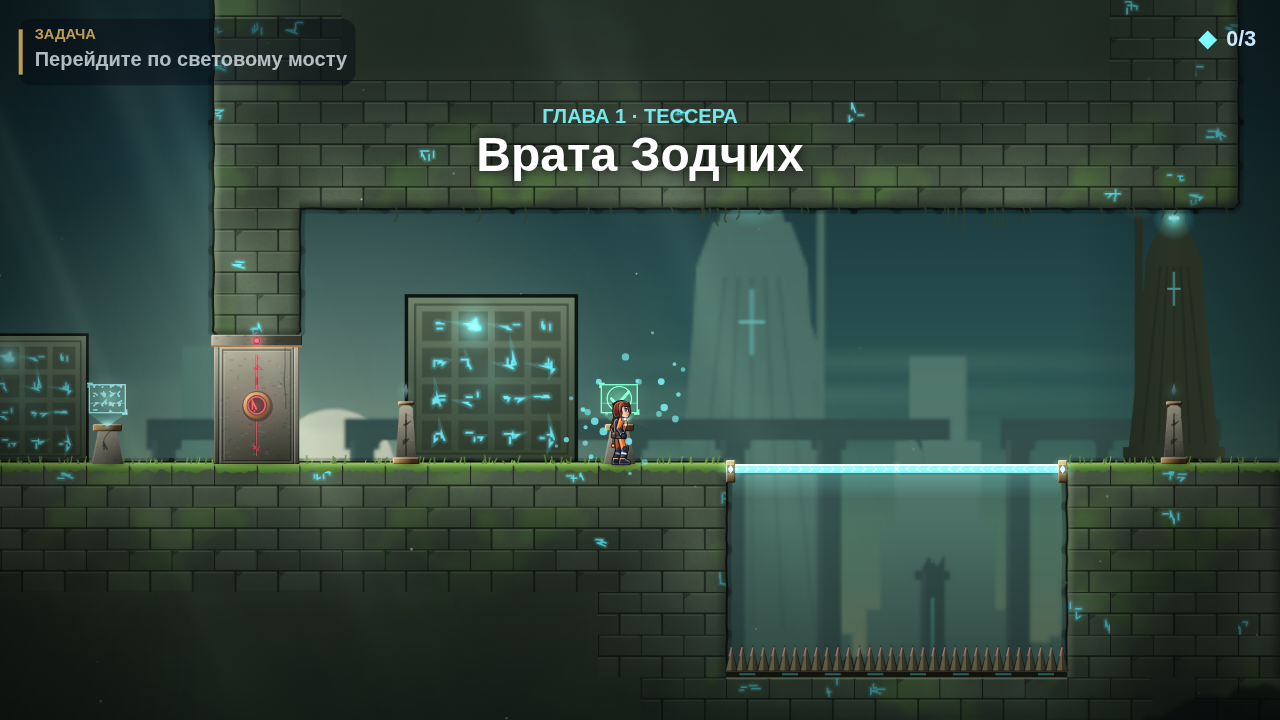
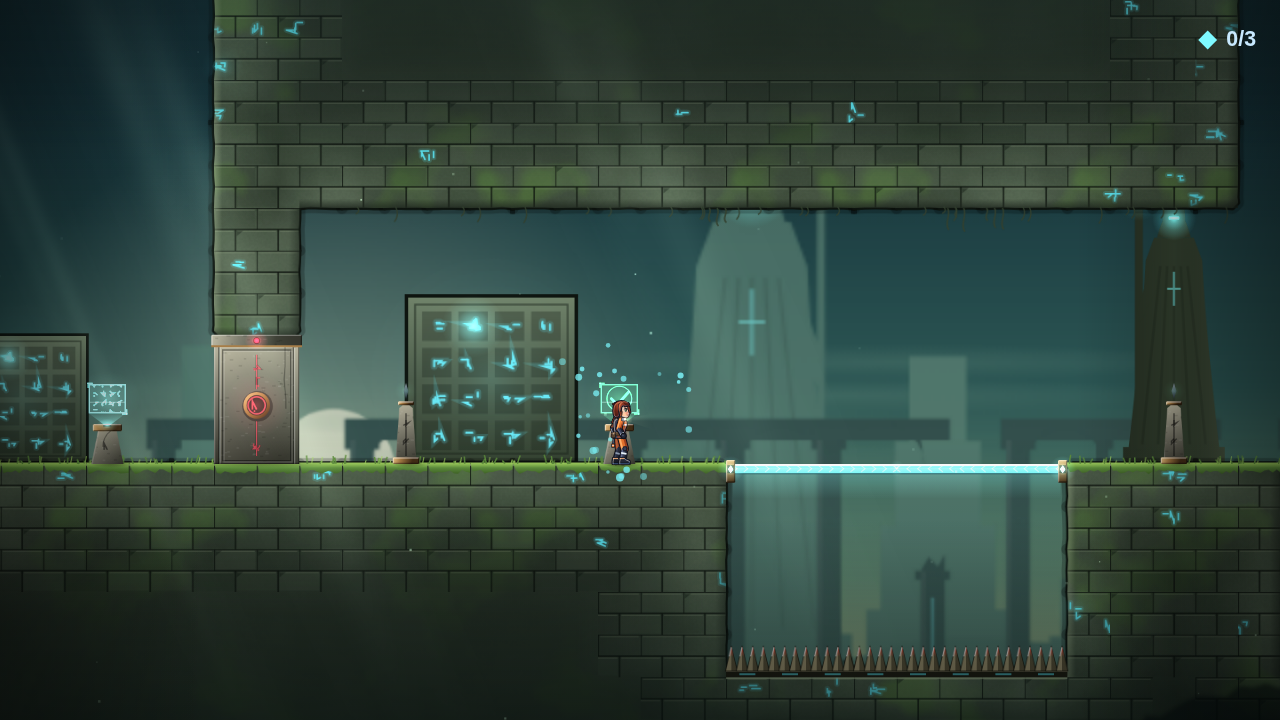
feat: text-free HUD (ui.noText), boss render hooks
Claude-Session: https://claude.ai/code/session_011riFv5DJ17e4oyhEAbbRPt

diff --git a/src/js/game.js b/src/js/game.js
@@ -345,7 +345,7 @@
         const can = !e.canInteract || e.canInteract(this);
         const missing = e.missingHint ? e.missingHint(this) : null;
         if (!can && !missing) continue;
-        if (d < bd) { bd = d; best = { e, can, missing }; }
+        if (d < bd) { bd = d; best = { e, can, missing, missingItem: missing ? e.needs : null }; }
       }
       return best;
     }
@@ -465,12 +465,14 @@
       else drawDebugTiles(ctx, view, L);
 
       const Ent = G.Art.Entities;
-      const order = ['exit', 'checkpoint', 'sign', 'terminal', 'socket', 'lever', 'door', 'bridge', 'plate', 'jumppad', 'laser', 'wind', 'fallplat', 'mplatform', 'crate', 'part', 'shard', 'anchor', 'dashcrystal', 'npc', 'saw', 'sentinel'];
+      const order = ['exit', 'checkpoint', 'sign', 'terminal', 'socket', 'lever', 'door', 'bridge', 'plate', 'jumppad', 'laser', 'wind', 'fallplat', 'mplatform', 'crate', 'part', 'shard', 'anchor', 'dashcrystal', 'npc', 'saw', 'sentinel', 'boss', 'bossproj'];
       for (const type of order) {
         for (const e of L.entities) {
           if (e.type !== type) continue;
           const vis = e.type === 'laser' ? true : onScreen(e, e.type === 'saw' ? 64 : 96);
-          if (vis && Ent && Ent.draw) Ent.draw(ctx, e, time, L);
+          if (!vis) continue;
+          if ((type === 'boss' || type === 'bossproj') && G.Art.Bosses) G.Art.Bosses.draw(ctx, e, time, L);
+          else if (Ent && Ent.draw) Ent.draw(ctx, e, time, L);
         }
       }
       if (this.drone.enabled && G.Art.Drone && G.Art.Drone.draw) G.Art.Drone.draw(ctx, this.drone, time);
@@ -483,7 +485,7 @@
       if (Decor.drawForeground && !low) Decor.drawForeground(ctx, view, L, time);
 
       // world-space UI: hints + interaction prompt
-      for (const e of L.entities) if (e.type === 'hint' && e.alpha > 0.01) drawHint(ctx, e);
+      if (!G.CONFIG.ui.noText) for (const e of L.entities) if (e.type === 'hint' && e.alpha > 0.01) drawHint(ctx, e);
       if (this.focus && !this.puzzle) drawPrompt(ctx, this.focus, t);
       ctx.restore();
 
@@ -504,13 +506,14 @@
         const k = Math.min(1, this.deathT / G.CONFIG.death.respawnDelay);
         ctx.fillStyle = `rgba(0,0,0,${Math.max(0, (k - 0.5) * 2) * 0.9})`; ctx.fillRect(0, 0, W, H);
       }
-      if (this.completeT >= 0) drawComplete(ctx, this);
+      if (this.completeT >= 0 && !G.CONFIG.ui.noText) drawComplete(ctx, this);
+      else if (this.completeT >= 0) { ctx.fillStyle = `rgba(0,0,0,${Math.min(0.6, this.completeT * 0.4)})`; ctx.fillRect(0, 0, W, H); }
     }
 
     drawHUD(ctx, t) {
       const def = this.def;
       // level banner
-      if (this.bannerT < 4.5 && !this.dialogue.active) {
+      if (!G.CONFIG.ui.noText && this.bannerT < 4.5 && !this.dialogue.active) {
         const a = Math.min(1, this.bannerT * 2, (4.5 - this.bannerT) * 1.5);
         ctx.save(); ctx.globalAlpha = Math.max(0, a);
         ctx.textAlign = 'center';
@@ -522,7 +525,7 @@
         ctx.restore();
       }
       // objective
-      if (this.objective) {
+      if (this.objective && !G.CONFIG.ui.noText) {
         const a = Math.min(1, this.objectiveT * 2);
         ctx.save(); ctx.globalAlpha = a;
         ctx.font = `600 14px ${FONT}`;
@@ -552,7 +555,7 @@
         ctx.restore();
       }
       // carried item
-      if (this.player.carry) {
+      if (this.player.carry && !G.CONFIG.ui.noText) {
         ctx.save(); ctx.font = `600 13px ${FONT}`; ctx.fillStyle = '#ffe17a'; ctx.textAlign = 'right';
         ctx.fillText('В руках: ' + (G.ITEM_NAMES[this.player.carry] || this.player.carry), W - 18, 56);
         ctx.restore();
@@ -608,6 +611,7 @@
   function drawPrompt(ctx, f, t) {
     const e = f.e;
     const key = G.input.touchActive ? 'E' : G.input.lastDevice === 'gamepad' ? 'X' : 'E';
+    if (G.CONFIG.ui.noText) { drawPromptIcon(ctx, f, t, key); return; }
     const text = f.can ? e.prompt || 'Действие' : 'Нужно: ' + f.missing;
     ctx.save();
     ctx.font = `700 13px ${FONT}`;
@@ -624,6 +628,19 @@
     } else {
       ctx.fillStyle = '#ffd0d0'; ctx.textAlign = 'center'; ctx.fillText(text, x + w / 2, y + 12.5);
     }
+    ctx.restore();
+  }
+
+  /** Text-free interaction prompt: a key-cap (or a red ✕ when the needed part is missing). */
+  function drawPromptIcon(ctx, f, t, key) {
+    const e = f.e, x = e.cx, y = e.y - 22 + Math.sin(t * 4) * 2;
+    ctx.save();
+    ctx.globalAlpha = 0.92;
+    ctx.fillStyle = f.can ? '#7ef9ff' : 'rgba(255,90,100,0.9)';
+    G.roundRect(ctx, x - 11, y - 10, 22, 20, 5); ctx.fill();
+    ctx.fillStyle = '#04101a'; ctx.font = `800 13px ${FONT}`; ctx.textAlign = 'center'; ctx.textBaseline = 'middle';
+    ctx.fillText(f.can ? key : '✕', x, y + 1);
+    if (!f.can && f.missingItem && G.Art.Entities && G.Art.Entities.drawItem) G.Art.Entities.drawItem(ctx, f.missingItem, x + 22, y, 14, true, 0);
     ctx.restore();
   }
 

diff --git a/src/js/world/physics.js b/src/js/world/physics.js
@@ -143,10 +143,34 @@
       return hits.length ? hits : null;
     },
 
-    /** Wall contact on side dir (-1 left, +1 right), static solids & doors only (not crates/platforms). */
+    /**
+     * Wall contact on side dir (-1 left, +1 right), static solids & doors only (not crates/platforms).
+     * Ice tiles are too slick to cling to: they never count as a wall (no slide, no wall jump).
+     */
     wallAt(body, dir, level) {
       const r = { x: dir > 0 ? body.x + body.w : body.x - 1, y: body.y + 4, w: 1, h: body.h - 10 };
-      return solidsOverlapping(r, level, body, false).some((h) => h.tile || (h.entity && h.entity.climbable));
+      return solidsOverlapping(r, level, body, false).some((h) => (h.tile && !(level.isIceTile && level.isIceTile(h.tx, h.ty))) || (h.entity && h.entity.climbable));
+    },
+
+    /**
+     * Tile line-of-sight (grid DDA, Amanatides–Woo): true if the segment (x0,y0)→(x1,y1) crosses
+     * no solid tile. Dynamic solids are ignored (doors/crates do not block sight or ropes).
+     * `skip(tx,ty)` may exempt tiles (e.g. the anchor's own tile).
+     */
+    lineClear(level, x0, y0, x1, y1, skip) {
+      let tx = Math.floor(x0 / T), ty = Math.floor(y0 / T);
+      const ex = Math.floor(x1 / T), ey = Math.floor(y1 / T);
+      const dx = x1 - x0, dy = y1 - y0;
+      const sx = dx > 0 ? 1 : -1, sy = dy > 0 ? 1 : -1;
+      const tdx = dx !== 0 ? Math.abs(T / dx) : Infinity, tdy = dy !== 0 ? Math.abs(T / dy) : Infinity;
+      let tmx = dx !== 0 ? ((sx > 0 ? (tx + 1) * T - x0 : x0 - tx * T) / Math.abs(dx)) : Infinity;
+      let tmy = dy !== 0 ? ((sy > 0 ? (ty + 1) * T - y0 : y0 - ty * T) / Math.abs(dy)) : Infinity;
+      for (let guard = 0; guard < 512; guard++) {
+        if (level.isSolidTile(tx, ty) && !(skip && skip(tx, ty))) return false;
+        if (tx === ex && ty === ey) return true;
+        if (tmx < tmy) { if (tmx > 1) return true; tmx += tdx; tx += sx; } else { if (tmy > 1) return true; tmy += tdy; ty += sy; }
+      }
+      return true;
     },
   };
 

diff --git a/src/js/ui/dialogue.js b/src/js/ui/dialogue.js
@@ -296,7 +296,7 @@
       if (fin > 0) { ctx.fillStyle = `rgba(0,0,0,${fin})`; ctx.fillRect(0, 0, W, H); }
       // letterbox
       ctx.fillStyle = '#000'; ctx.fillRect(0, 0, W, 34); ctx.fillRect(0, H - 34, W, 34);
-      if (s && s.caption) {
+      if (s && s.caption && !G.CONFIG.ui.noText) {
         ctx.fillStyle = 'rgba(255,255,255,' + Math.min(1, this.shotT) * 0.85 + ')';
         ctx.font = `600 15px ${FONT}`;
         ctx.textAlign = 'left'; ctx.textBaseline = 'middle';
@@ -308,7 +308,7 @@
       const touch = G.input.touchActive;
       const pad = G.input.lastDevice === 'gamepad';
       const key = touch ? '⏸' : pad ? 'Start' : 'Esc';
-      const label = 'Удерживайте, чтобы пропустить';
+      const label = G.CONFIG.ui.noText ? '' : 'Удерживайте, чтобы пропустить';
       ctx.textBaseline = 'middle';
       ctx.font = `500 13px ${FONT}`;
       const lw = ctx.measureText(label).width;

diff --git a/src/index.html b/src/index.html
@@ -28,6 +28,7 @@
   <script src="js/world/entities.js"></script>
   <script src="js/world/player.js"></script>
   <script src="js/world/drone.js"></script>
+  <script src="js/world/bosses.js"></script>
   <!-- art -->
   <script src="js/art/palette.js"></script>
   <script src="js/art/decor.js"></script>
@@ -36,6 +37,7 @@
   <script src="js/art/entities.js"></script>
   <script src="js/art/portraits.js"></script>
   <script src="js/art/lighting.js"></script>
+  <script src="js/art/bosses.js"></script>
   <!-- story -->
   <script src="js/story/script.js"></script>
   <!-- levels -->

diff --git a/src/js/config.js b/src/js/config.js
@@ -116,6 +116,9 @@ G.CONFIG = {
 
   death: { respawnDelay: 1.0 },
 
+  /** UI: noText hides hints, objective, level banners, item labels, captions (menus/puzzles/dialogue keep text). */
+  ui: { noText: true },
+
   camera: { lookAhead: 70, smooth: 6, verticalSmooth: 5, deadzoneY: 40 },
 
   /**

diff --git a/src/js/world/bosses.js b/src/js/world/bosses.js
@@ -1,0 +1,1 @@
+/** Placeholder — boss logic (boss programmer). */

diff --git a/src/js/art/bosses.js b/src/js/art/bosses.js
@@ -1,0 +1,1 @@
+/** Placeholder — boss art (boss programmer). */
